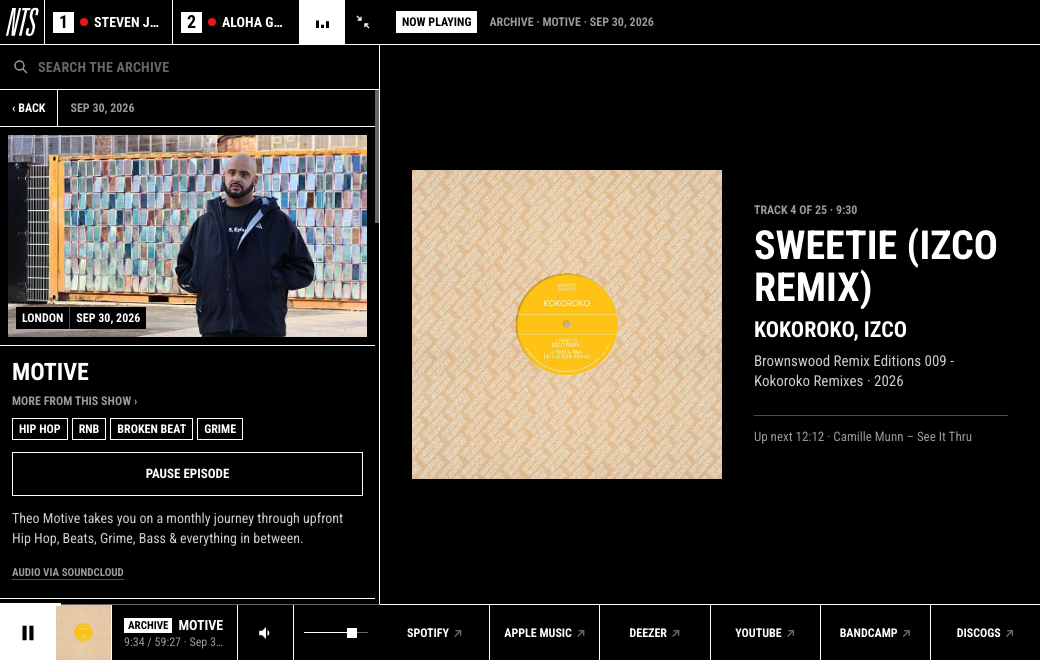
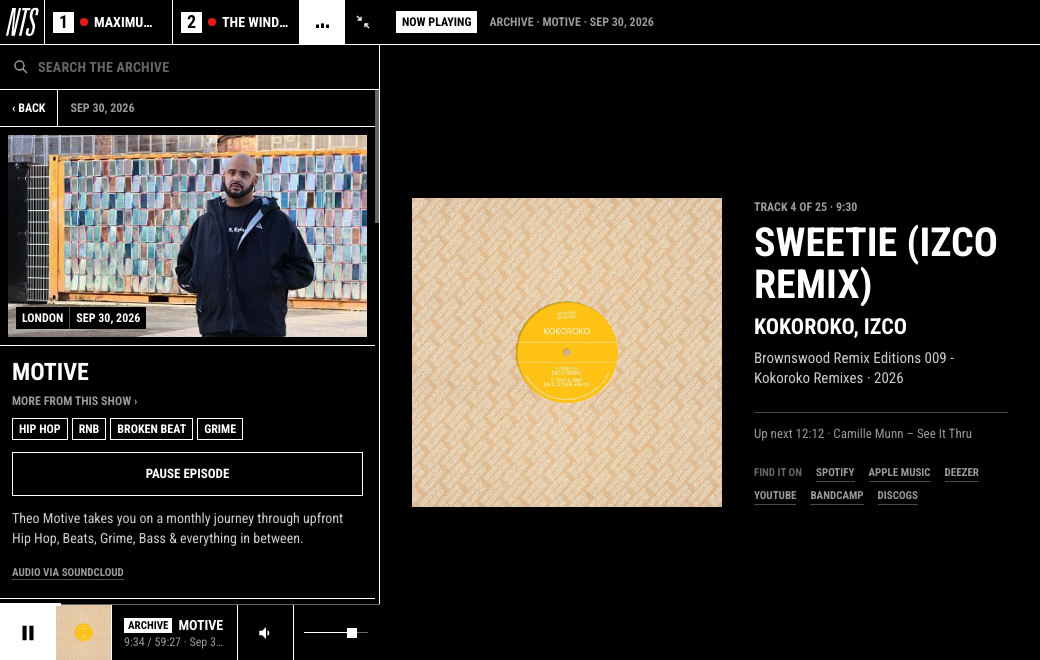
Tone down the listen-elsewhere links
Move them from a full-width bar into a quiet 'Find it on' line of small
underlined text links under the track details.

Claude-Session: https://claude.ai/code/session_011HAuvYWG96Zcs9KmmZ1qof

diff --git a/src/style.css b/src/style.css
@@ -447,7 +447,7 @@ body.playing .track__art { background: var(--grey-1); }
 
   .stage {
     grid-column: 2; grid-row: 1 / span 3; display: grid; min-width: 0;
-    grid-template-rows: 45px minmax(0, 1fr) var(--bar);
+    grid-template-rows: 45px minmax(0, 1fr);
     background: var(--black); color: var(--white);
   }
   .stage__bar {
@@ -464,11 +464,11 @@ body.playing .track__art { background: var(--grey-1); }
   /* Art fills the height it has, as a square (album) or 16:9 (show artwork) */
   .stage__art {
     /* square: as big as the height allows, capped so the text keeps room */
-    flex: 0 0 auto; width: min(52%, calc(100vh - 45px - var(--bar) - 48px), 560px); aspect-ratio: 1 / 1;
+    flex: 0 0 auto; width: min(52%, calc(100vh - 45px - 48px), 560px); aspect-ratio: 1 / 1;
     background: var(--grey-4); position: relative; overflow: hidden;
     box-shadow: 0 1px 20px 0 rgba(0, 0, 0, .05);
   }
-  .stage__art--wide { aspect-ratio: 16 / 9; width: min(55%, calc((100vh - 45px - var(--bar) - 48px) * 16 / 9)); }
+  .stage__art--wide { aspect-ratio: 16 / 9; width: min(55%, calc((100vh - 45px - 48px) * 16 / 9)); }
   .stage__art img { position: absolute; inset: 0; width: 100%; height: 100%; object-fit: cover; display: block; }
   .stage__art img:not([src]) { display: none; }
   .stage__art--empty::after {
@@ -492,18 +492,17 @@ body.playing .track__art { background: var(--grey-1); }
   }
   .stage__artist:empty, .stage__album:empty, .stage__next:empty { display: none; }
 
-  /* Links bar lines up with the now-playing bar */
-  .stage__links { display: flex; border-top: var(--rule); min-width: 0; overflow: hidden; }
+  /* Listen-elsewhere links: a quiet line under the track details */
+  .stage__links { display: flex; flex-wrap: wrap; align-items: baseline; gap: 6px 14px; margin-top: 14px; }
+  .stage__links:has(.stage__links-list:empty) { display: none; }
+  .stage__links-label { font-size: 11px; line-height: 16px; font-weight: 700; text-transform: uppercase; color: var(--grey-3); }
+  .stage__links-list { display: contents; }
   .stage__link {
-    flex: 1 1 0; min-width: 0; display: flex; align-items: center; justify-content: center; padding: 0 8px;
-    color: var(--white); text-decoration: none; white-space: nowrap; overflow: hidden; text-overflow: ellipsis;
-    font-size: 12px; line-height: 14px; font-weight: 700; text-transform: uppercase;
-    transition: background-color .1s linear, color .1s linear;
+    color: var(--grey-2); text-decoration: none; border-bottom: 1px solid var(--grey-4);
+    font-size: 11px; line-height: 16px; font-weight: 700; text-transform: uppercase; white-space: nowrap;
+    transition: color .1s linear, border-color .1s linear;
   }
-  .stage__link + .stage__link { border-left: var(--rule); }
-  .stage__link:hover { background: var(--white); color: var(--black); }
-  .stage__link::after { content: " \2197"; margin-left: 4px; color: var(--grey-3); }
-  .stage__link:hover::after { color: var(--grey-3); }
+  .stage__link:hover { color: var(--white); border-color: var(--white); }
 }
 
 /* Narrow-ish wide windows: stack art above the info */
@@ -513,6 +512,4 @@ body.playing .track__art { background: var(--grey-1); }
   .stage__art--wide { width: 100%; }
   .stage__info { min-width: 0; width: 100%; }
   .stage__title { font-size: 30px; line-height: 32px; -webkit-line-clamp: 2; }
-  .stage__link { font-size: 11px; padding: 0 4px; }
-  .stage__link::after { display: none; }
 }

diff --git a/src/index.html b/src/index.html
@@ -85,9 +85,12 @@
         <p class="stage__artist" id="stageArtist"></p>
         <p class="stage__album" id="stageAlbum"></p>
         <p class="stage__next" id="stageNext"></p>
+        <nav class="stage__links" aria-label="Find this track elsewhere">
+          <span class="stage__links-label" id="stageLinksLabel">Find it on</span>
+          <span class="stage__links-list" id="stageLinks"></span>
+        </nav>
       </div>
     </div>
-    <nav class="stage__links" id="stageLinks" aria-label="Listen elsewhere"></nav>
   </aside>
 
   <div class="snackbar" id="snackbar" hidden>Track info copied</div>

diff --git a/src/renderer.js b/src/renderer.js
@@ -548,6 +548,7 @@ const Stage = (() => {
   }
 
   function paintLinks(items) {
+    $('stageLinksLabel').hidden = !items.length || items.length === 1;
     $('stageLinks').replaceChildren(...items.map(([name, href]) => {
       const a = document.createElement('a');
       a.className = 'stage__link'; a.href = href; a.target = '_blank'; a.textContent = name;
